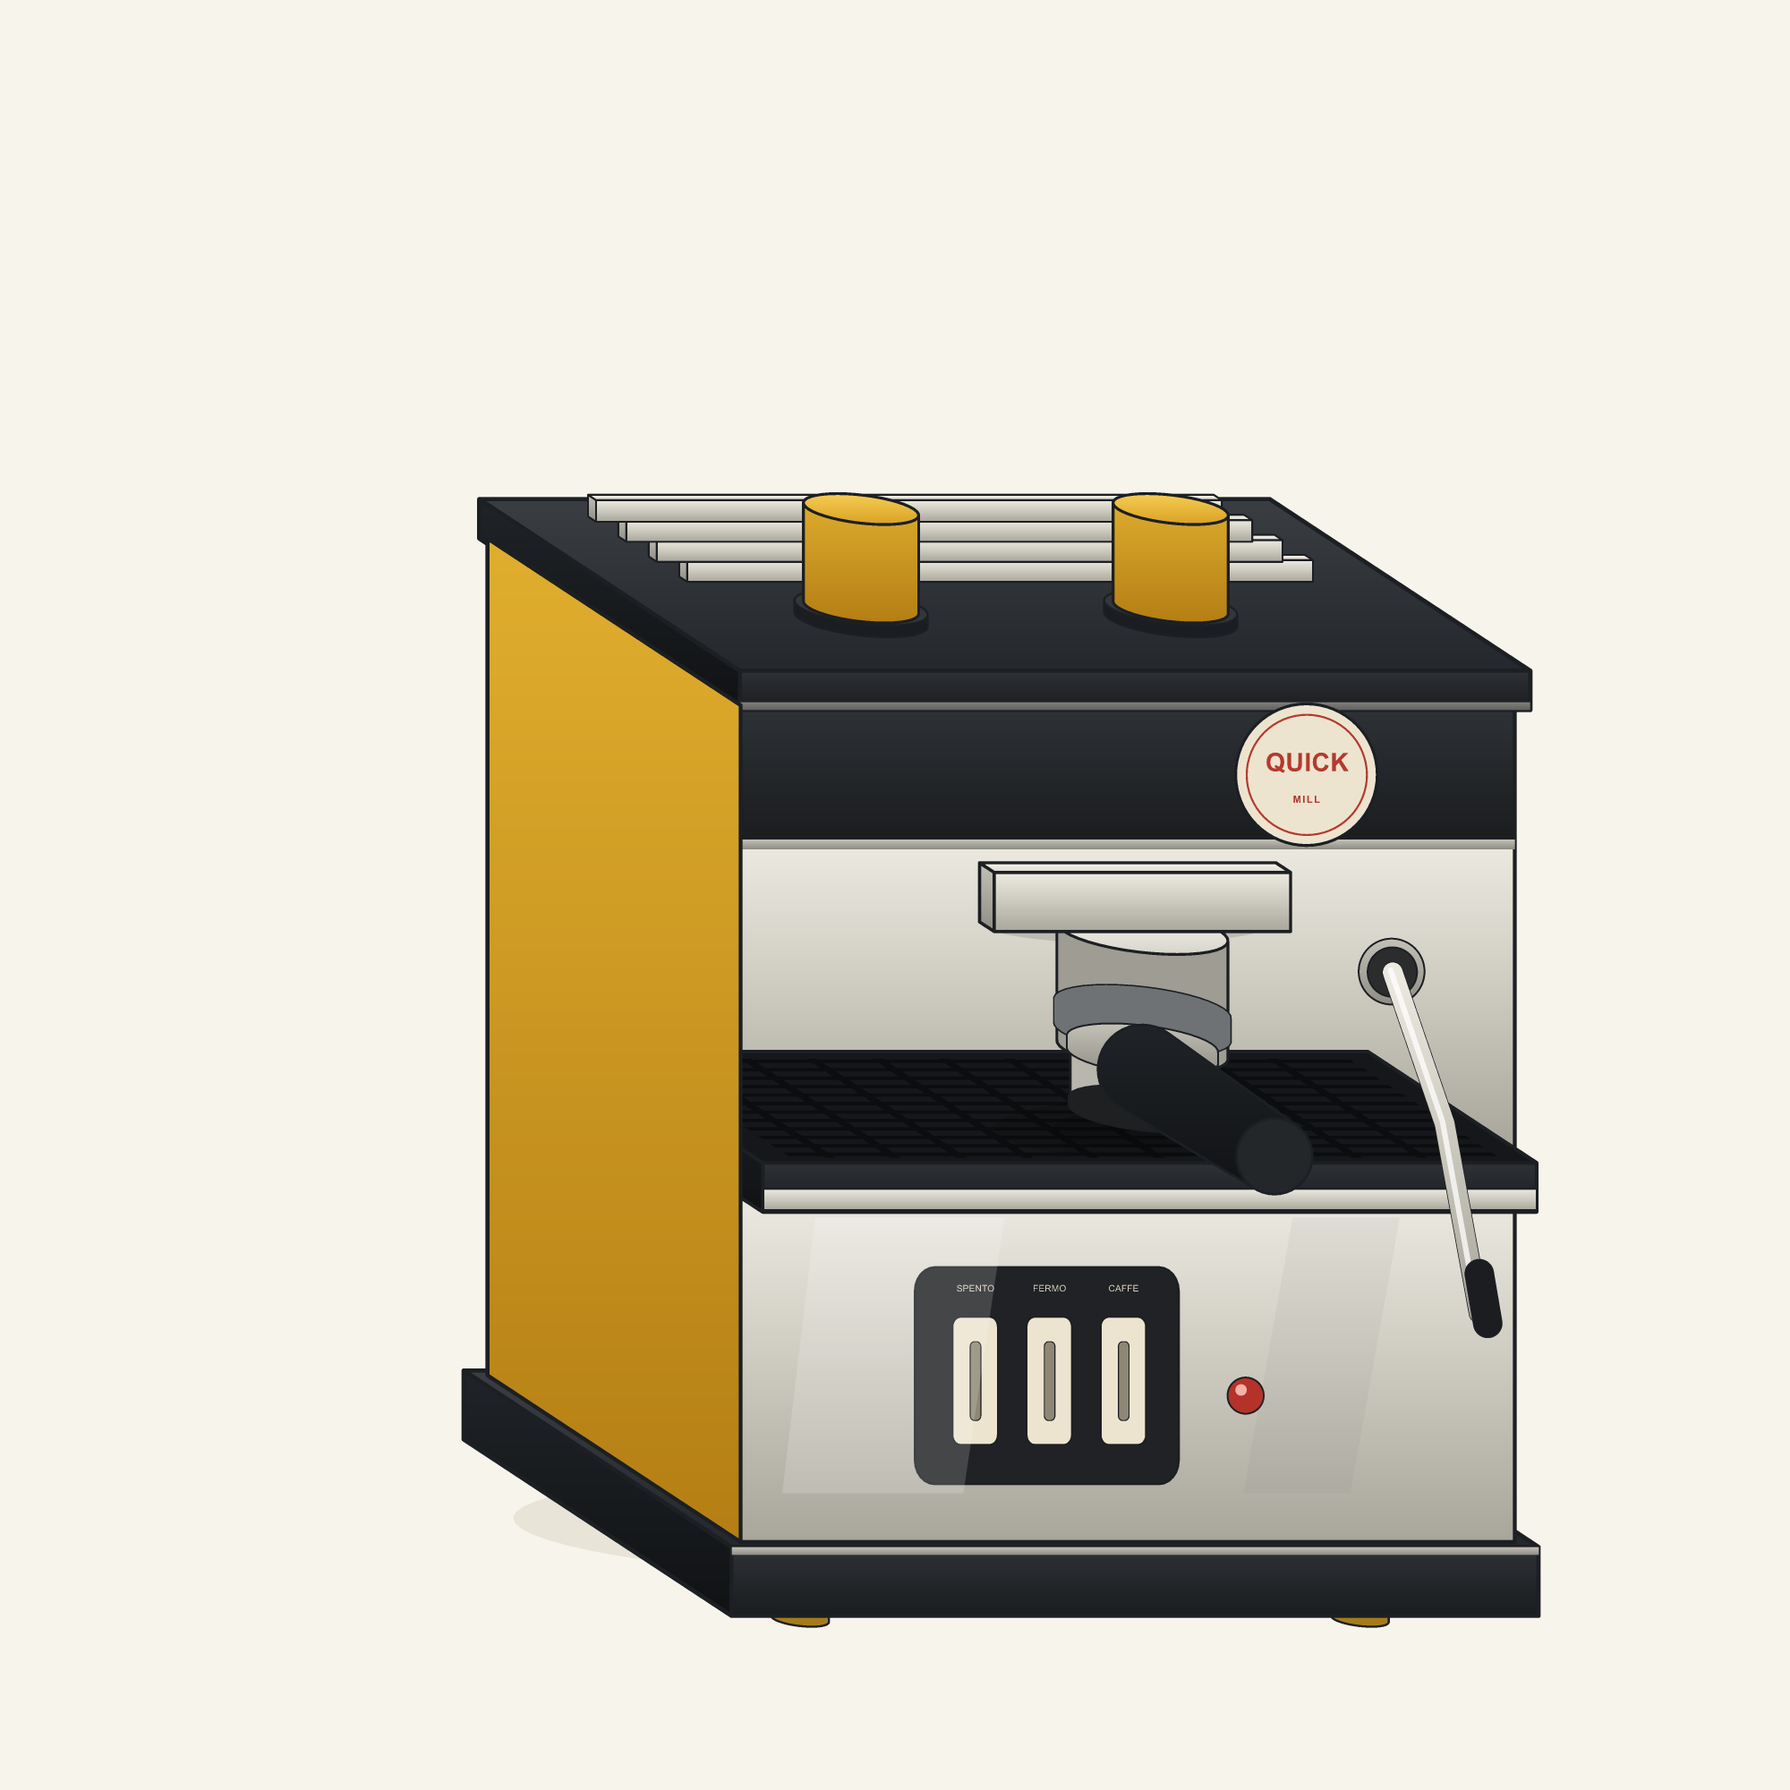
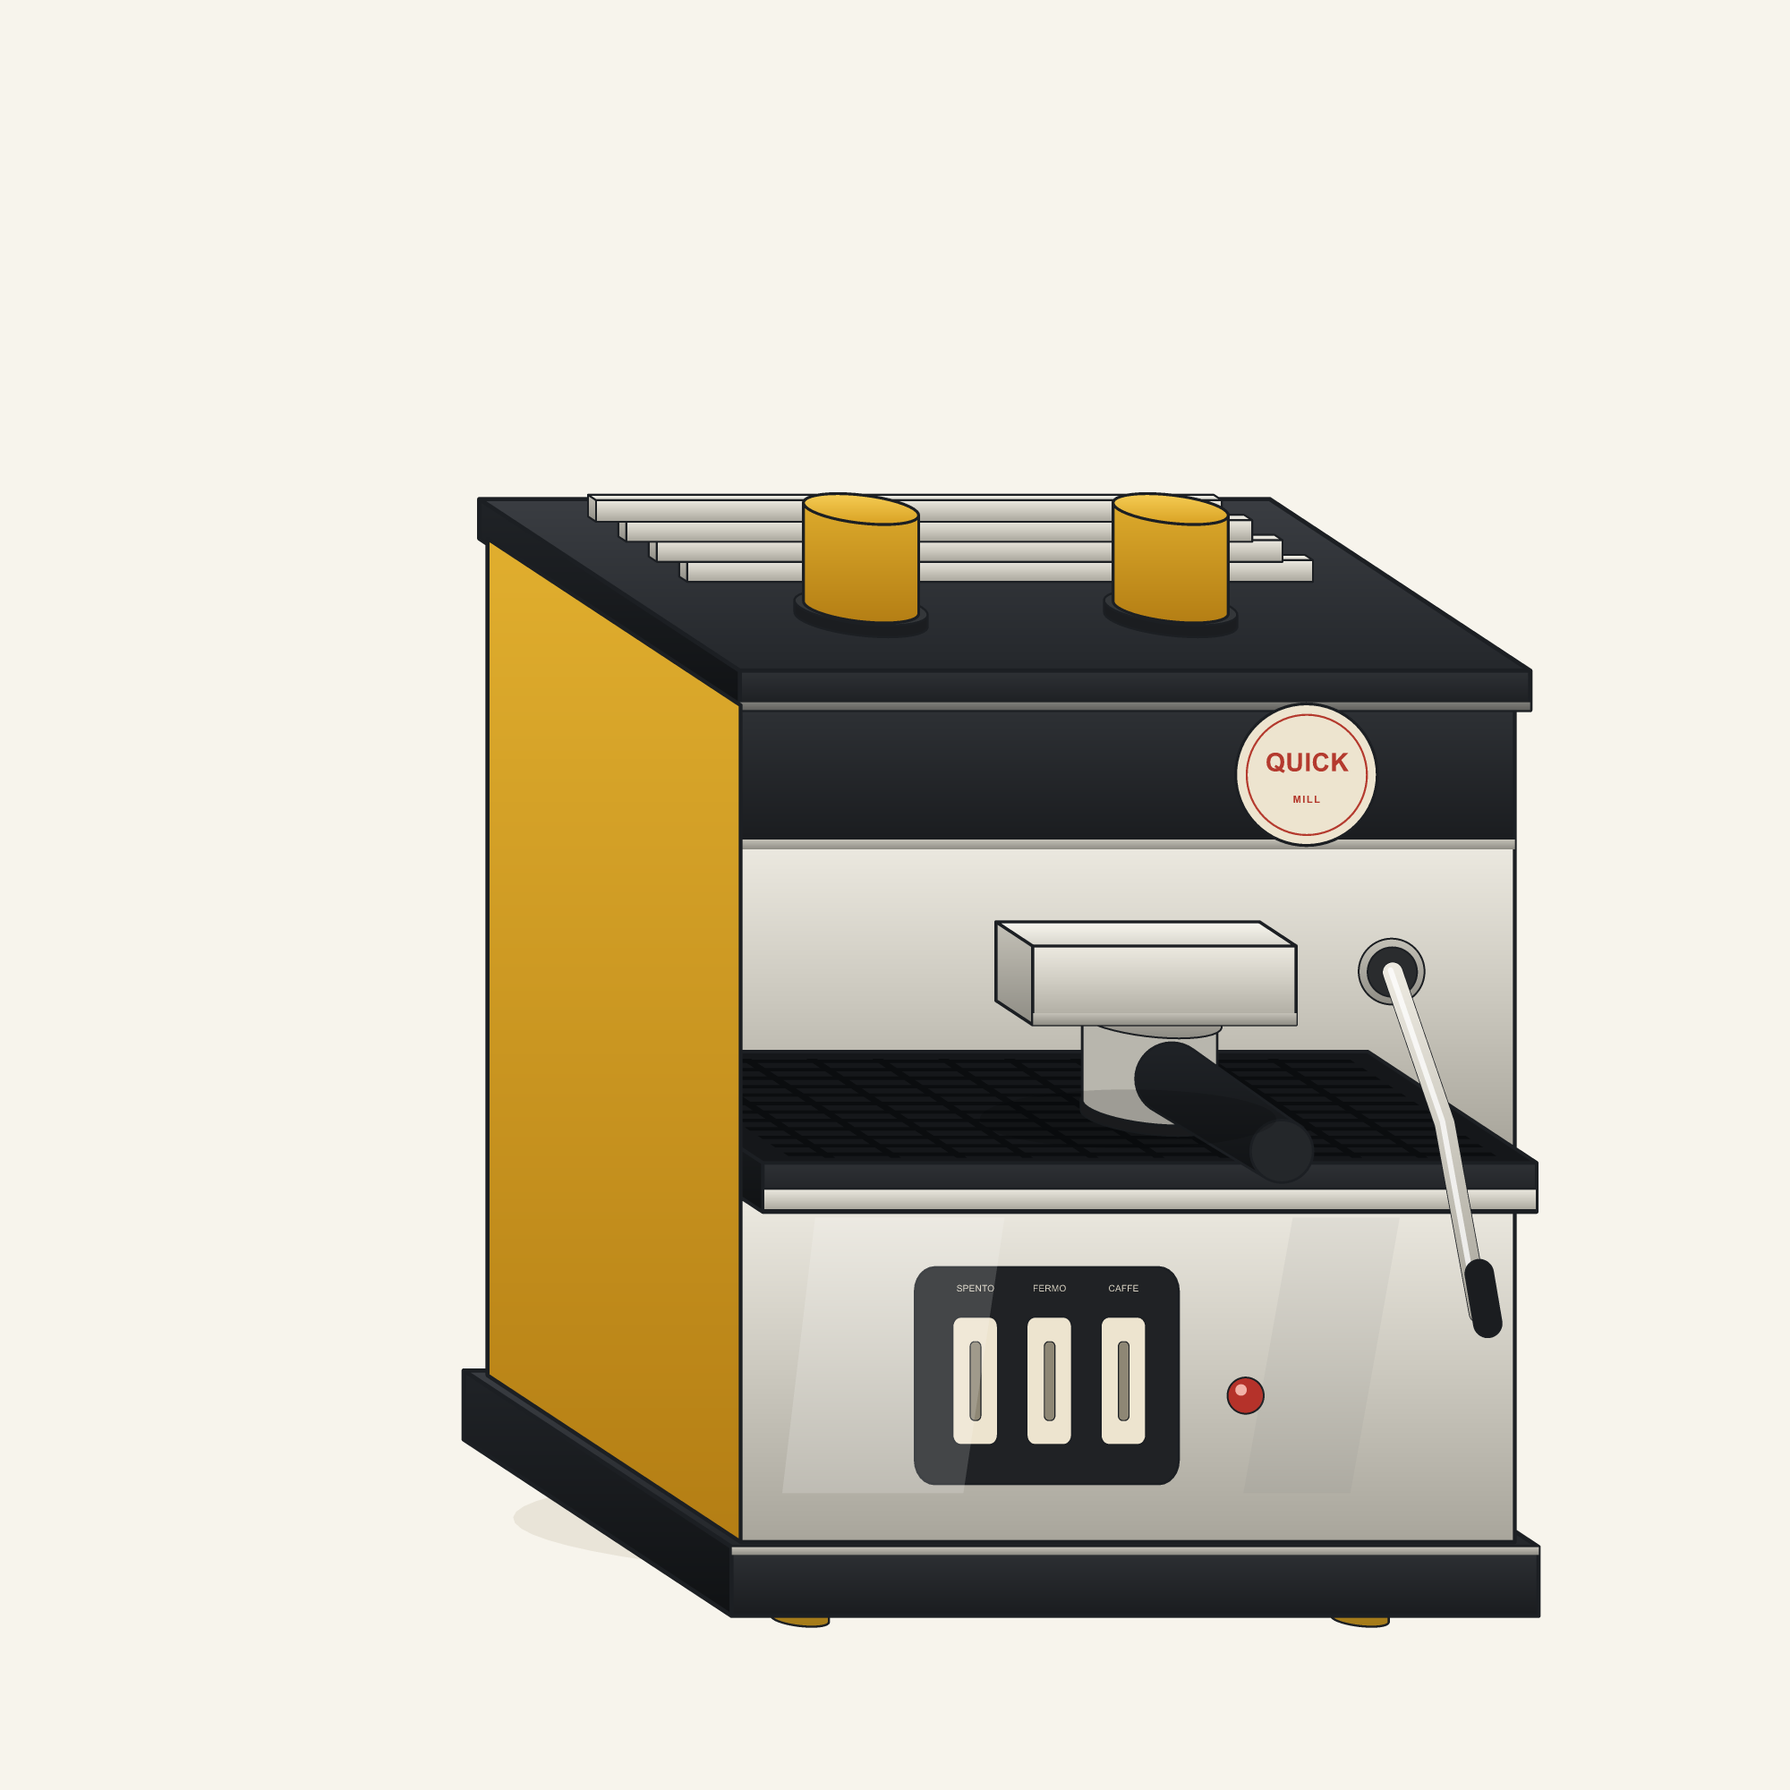
T053 [vector]: box group housing, painter order and report sync

Changed region(s): [[0.527, 0.465, 0.744, 0.651]]

diff --git a/experiments/T053-20261102-opencode-vector-reconstruction/inputs/build_quickmill.py b/experiments/T053-20261102-opencode-vector-reconstruction/inputs/build_quickmill.py
@@ -37,8 +37,8 @@ class Dimensions:
     top_h: float = 4
     tray_front: float = -6
     tray_depth: float = 46
-    group_r: float = 9.5
-    portafilter_r: float = 8.0
+    group_r: float = 8.5
+    portafilter_r: float = 7.5
 
     @property
     def x1(self) -> float:
@@ -190,40 +190,36 @@ def build(dims: Dimensions | None = None) -> str:
          (d.x0, d.tower_top, d.z1), (d.x0, d.tower_top, d.z0)],
         fill=yellow_side, sw=2.2)])
 
-    # Group head: an overhang + a vertical cylinder + a basket.  Not a lens.
+    # Portafilter is lower than the group housing, so it is painted first.
     gx = d.cx
-    gz = d.z0 - 4
+    gz = d.z0 - 6.0
     gy = d.group_y
-    # Vertical group.  The overhang is painted after the cylinder so it
-    # covers the cylinder's top ellipse; the bottom disc is not drawn because
-    # the camera is above and a bottom disc would show through the shell.
-    group_head = [
-        s.front_ellipse(gx, gy - 11, 18, 3.0, d.z0 - 4.05, "#000000",
-                        stroke=None, sw=0, opacity=0.14),
-        s.front_ellipse(gx, gy - 11, 11, 2.0, d.z0 - 4.05, "#000000",
-                        stroke=None, sw=0, opacity=0.14),
-        s.front_ellipse(gx, gy + 9, 18, 2.2, d.z0 - 0.1, "#000000",
-                        stroke=None, sw=0, opacity=0.12),
+    portafilter = [
+        s.cylinder_y(gx, gz, d.portafilter_r + 0.2, gy - 9.4, gy - 8.4,
+                     side="#1E2022", top="#1E2022", sw=0.8)[0],
+        s.cylinder_y(gx, gz, d.portafilter_r, gy - 8.4, gy + 1.0,
+                     side="#B8B6AD", top=chrome_top, sw=1.4)[0],
+        s.cylinder_y(gx, gz, d.portafilter_r + 0.5, gy + 0.6, gy + 1.2,
+                     side=chrome_side, top=chrome_top, sw=1.0)[0],
     ]
-    group_head += s.cylinder_y(gx, gz, d.group_r, gy - 3, gy + 9,
-                               side="#9E9C93", top=chrome_top, sw=1.6)
-    group_head.append(s.cylinder_y(gx, gz, d.group_r + 0.35, gy - 1.2, gy + 1.2,
-                                   side="#6F7274", top="#6F7274", sw=0.8)[0])
-    group_head += s.box(gx - 18, gy + 9, d.z0 - 4, gx + 18, gy + 15, d.z0,
-                        front=chrome_front, side=chrome_side, top=chrome_top, sw=1.8)
-    group(s, "group-head", group_head)
-
-    # Basket: side only; its top is hidden under the group head.  The handle
-    # is painted last because it is the front-most part.
-    portafilter = s.cylinder_y(gx, gz, d.portafilter_r, gy - 9, gy - 3,
-                               side="#B8B6AD", top=chrome_top, sw=1.4)[:1]
-    portafilter.append(s.cylinder_y(gx, gz, d.portafilter_r + 0.4, gy - 3.6, gy - 2.4,
-                                    side=chrome_side, top=chrome_top, sw=1.0)[0])
-    portafilter.append(s.cylinder_y(gx, gz, d.portafilter_r + 0.2, gy - 9.4, gy - 8.6,
-                                    side="#1E2022", top="#1E2022", sw=0.8)[0])
-    portafilter += s.cylinder_z(gx, gy - 5, gz, d.z0 - 40, 5.4, 4.6,
-                                side=black_side, cap="#24272A", sw=1.4)
+    portafilter += s.cylinder_z(gx, gy - 4.0, gz - d.portafilter_r + 1.5, d.z0 - 42,
+                                4.4, 3.8, side=black_side, cap="#24272A", sw=1.4)
     group(s, "portafilter", portafilter)
+
+    # Rectangular group housing.  It is drawn after the basket, so its bottom
+    # face covers the basket top; no top ellipse peeks out.
+    group_head = [
+        s.front_ellipse(gx, gy - 11, 18, 3.0, d.z0 - 0.1, "#000000",
+                        stroke=None, sw=0, opacity=0.14),
+    ]
+    group_head += s.box(gx - 16, gy + 1.0, d.z0 - 10, gx + 16, gy + 9.0, d.z0,
+                        front=chrome_front, side=chrome_side, top=chrome_top, sw=1.8)
+    group_head.append(s.face([(gx - 16, gy + 1.0, d.z0 - 10.1),
+                              (gx + 16, gy + 1.0, d.z0 - 10.1),
+                              (gx + 16, gy + 2.2, d.z0 - 10.1),
+                              (gx - 16, gy + 2.2, d.z0 - 10.1)],
+                             fill=chrome_side, stroke=None, sw=0))
+    group(s, "group-head", group_head)
 
     # Steam wand: bracket first, then the tube; z stays in front of the face.
     wand = [s.front_circle(d.x0 + d.width * 0.84, gy + 4, 4.0, d.z0 - 0.2,

diff --git a/experiments/T053-20261102-opencode-vector-reconstruction/inputs/make_compare.py b/experiments/T053-20261102-opencode-vector-reconstruction/inputs/make_compare.py
@@ -49,7 +49,7 @@ def main() -> None:
            "T051: 54 traced paths, 1,437 nodes, noise and doubled contours.",
            font=font(13), fill="#4A4F55")
     d.text((gap, top + height + 38),
-           "T053: 16 part groups, 105 primitive paths, 5 text elements, 0 traced pixels.",
+           "T053: 16 part groups, 101 primitive paths, 5 text elements, 0 traced pixels.",
            font=font(13), fill="#4A4F55")
     d.text((gap + trace.width + gap, top + height + 14),
            "Boxes, cylinders, plates and controls in one projection; the photo supplies",

diff --git a/experiments/T053-20261102-opencode-vector-reconstruction/REPORT.md b/experiments/T053-20261102-opencode-vector-reconstruction/REPORT.md
@@ -31,8 +31,8 @@
   accessed 2026-11-02. Kept locally only as a reference.
 - **Manual measurements (object units, width × height × depth):**
   base 104 × 7 × 74; lower body 94 × 35 × 69; tower 94 × 50 × 69; top panel
-  92 × 4 × 63; drip tray 94 × 5 × 46; group head boss radius 12.5 × 11 deep;
-  portafilter handle radius 5.6 → 4.8, 40 long; knobs radius 6.4 × 10 tall.
+  96 × 4 × 71; drip tray 94 × 5 × 46; group housing 32 × 8 × 10;
+  portafilter basket radius 7.5; handle radius 4.4 → 3.8, 42 long; knobs radius 6.4 × 10 tall.
   These are proportions read from the photo, not a survey.
 - **Environment:** Windows 10/11 x64; Python 3.13; VectorCraft
   `vectorcraft-cli.exe` (ArtCraft); no Illustrator/Inkscape run.
@@ -60,13 +60,14 @@ python -m unittest tests.test_vector_reconstruct -v
    base, lower body, tower, top panel, cup rails, drip tray, side panel, group
    head, portafilter, steam wand, top knobs, badge, controls. With the shadow
    and the highlight layer that is **16 groups** in the SVG.
-3. **Primitives only.** `box()` paints left side, top, front. `cylinder_z()`
-   builds the group head and portafilter from projected circles and a convex
-   hull. `front_rounded()` / `front_circle()` build plates, knobs and the badge.
+3. **Primitives only.** `box()` paints left side, top, front and builds the
+   group housing. `cylinder_y()` builds the basket and knobs from projected
+   circles and a convex hull; `cylinder_z()` is used only for the portafilter
+   handle. `front_rounded()` / `front_circle()` build plates and the badge.
    `tube()` is used only for the steam wand. There is **no Canny, no contour,
    no RDP, no pixel coordinate** in the scene.
 4. **Painter's order.** Base → lower body → tower → top panel → rails → tray →
-   side panel → group head → portafilter → wand → knobs → badge → controls.
+   side panel → portafilter → group head → wand → knobs → badge → controls.
    Each part is drawn after the part it occludes.
 5. **One light.** Front chrome is a light gradient, the left side is darker,
    the top is lightest; yellow uses the same convention. Two designed highlight
@@ -85,7 +86,7 @@ python -m unittest tests.test_vector_reconstruct -v
   front, circle/ellipse, vertical/horizontal cylinder, tube, gradients, SVG
   document and `inspect` CLI.
 - **`experiments/T053-.../inputs/build_quickmill.py`** — the Quick Mill scene:
-  16 semantic groups, 105 primitive paths, 5 text elements.
+  16 semantic groups, 101 primitive paths, 5 text elements.
 - **`tests/test_vector_reconstruct.py`** — 16 tests: linear projection,
   rounded rect, circle, hull, box faces, round front circles, cylinder parts,
   tube, live text, well-formed SVG without raster, determinism, paper layer.
@@ -105,7 +106,7 @@ python -m unittest tests.test_vector_reconstruct -v
 | Cup rails | 4 × thin chrome boxes | top, front | repeated bars, not a traced grid |
 | Drip tray | box 94×5×46 + slot pattern | top, front | black tray with a fine repeated grid |
 | Side panel | one yellow face | left | continuous from base to top; no tray cut |
-| Group head | overhang box + vertical cylinder | front, side, top | a hanging group, not a camera lens |
+| Group head | box housing + vertical basket | front, side, top | a rectangular group housing, not a camera lens |
 | Portafilter | vertical basket + horizontal handle | side, cap | basket under the group; handle forward |
 | Steam wand | screen-space tube | — | chrome tube + black grip; a hose, not an edge |
 | Top knobs | 2 × vertical cylinder | side, top | black base ring + yellow body |
@@ -123,8 +124,8 @@ scene.
 
 | Claim | Rung | Evidence |
 |---|---|---|
-| The SVG is a real, editable vector document | 1 | XML parses; 16 groups; 105 paths; 5 text elements; viewBox `0 0 1000 1000` |
-| It is rendered by the vector tool | 4 | VectorCraft `info`: 16 groups, 106 path objects, 5 types, 0 warnings; 2× PNG inspected |
+| The SVG is a real, editable vector document | 1 | XML parses; 16 groups; 101 paths; 5 text elements; viewBox `0 0 1000 1000` |
+| It is rendered by the vector tool | 4 | VectorCraft `info`: 16 groups, 102 path objects, 5 types, 0 warnings; 2× PNG inspected |
 | No raster underlay or trace | 1 | `build_quickmill.py` imports no OpenCV/Canny; SVG has no `<image>`/base64; scene uses object coordinates |
 | Parts are semantic and independent | 1 | group IDs `base`, `lower-body`, `tower`, `top-panel`, `drip-tray`, `side-panel`, `group-head`, `portafilter`, `steam-wand`, `top-knobs`, `badge`, `controls` |
 | Geometry is deterministic | 1 | two builds produce identical SVG; `test_scene_is_deterministic` |
@@ -137,7 +138,7 @@ scene.
 | Build | Method | Paths | Nodes / structure | Noise |
 |---|---|---|---:|---|
 | T051 line | Canny → RDP → Bézier | 54 | 1,437 nodes | doubled contours, traced reflections, badge C |
-| **T053** | **semantic 2.5D primitives** | **105** | **16 groups, 105 primitive paths, 5 texts** | **none by construction** |
+| **T053** | **semantic 2.5D primitives** | **101** | **16 groups, 101 primitive paths, 5 texts** | **none by construction** |
 
 Path count is not the metric; structure is. T053 has more paths because each
 box contributes three faces and each cylinder two, but every path is a named
@@ -192,9 +193,9 @@ the brief is unchanged, the scene was rebuilt.
 | Finding | Response |
 |---|---|
 | Blocker: `cylinder_y` shadowed the `top` colour with the top point list, so knob tops rendered black | **Fixed.** `bottom_pts` / `top_pts`; test asserts the top fill is valid and no `fill="[` exists |
-| Blocker: group head/portafilter were horizontal cylinders that read as a camera lens; drip tray pierced the front wall | **Fixed.** The group is an overhang + vertical cylinder + basket, with the handle forward. The tower starts at the tray top, so the tray no longer intersects the front wall |
+| Blocker: group head/portafilter were horizontal cylinders that read as a camera lens; drip tray pierced the front wall | **Fixed.** The group is a box housing + vertical basket, with the handle forward. The tower starts at the tray top, so the tray no longer intersects the front wall |
 | Blocker: report claimed “changing a dimension moves the part” while coordinates were hardcoded | **Fixed.** `Dimensions` dataclass; `build(Dimensions(width=88))` test; side panel, top, badge, rails and tray derive from it |
 | Major: text labels were wrong (“MOL”, “FEENO”) and appeared missing | **Fixed.** “MILL”, “FERMO”; text is live and renders (2× crop verified); test checks the text contract |
 | Major: top panel was offset (z8..71) and the wand went behind the front face | **Fixed.** Top panel is `z0-2..z1`, overhangs 1 unit; wand stays at `z <= 0`; bracket is drawn before the tube |
 | Major: no `cylinder_z`/scene/CLI tests; docstring promised a `demo` command | **Fixed.** 16 tests cover `cylinder_z`, `inspect_svg`, the Quick Mill scene and width change; `demo` implemented |
-| Minor: 14/15/16 counts, 100 vs 102 paths, pixel-space shadow, unused gradient/clip | **Fixed.** 16 groups (14 parts + shadow + highlights); 105 `<path>` + 1 `<rect>` + 5 `<text>`; VectorCraft reports 106 path objects; shadow uses `disc_y`; unused `yellowFront`/`clip` removed |
+| Minor: 14/15/16 counts, 100 vs 102 paths, pixel-space shadow, unused gradient/clip | **Fixed.** 16 groups (14 parts + shadow + highlights); 105 `<path>` + 1 `<rect>` + 5 `<text>`; VectorCraft reports 102 path objects; shadow uses `disc_y`; unused `yellowFront`/`clip` removed |

diff --git a/HANDOFF.md b/HANDOFF.md
@@ -74,7 +74,7 @@ PowerPoint chá»‰ lĂ  domain lĂ¢u Ä‘á»i nháº¥t.
 
 | `video` | Ná»n táº£ng (T042): SMPTE RP 2046-2 / EBU R95 safe areas (Action 3.5%, Title 5.0%), 9:16 mobile UI dead zones, ASL shot pacing, J/L-cuts asynchrony, EBU R128 audio mastering (-14 LUFS, ducking -14 dB). Native bridges: `filmcraft_bridge.py` & `soundcraft_bridge.py`. |
 
-| `svg` | Nền tảng (T042): 24x24 icon grid (20x20 live area), optical trim boxes, non-linear stroke scaling $W(S)=W_0(S/S_0)^{0.75}$, Bézier circle handle $\kappa \approx 0.55228$. Native bridge: `vectorcraft_bridge.py`. **T053** semantic 2.5D reconstruction: 16 groups, 105 primitive paths, 5 texts, 0 Canny/raster; T051 edge trace kept as **negative result**. `work/T053-opencode-vector-reconstruction`; **review requested**. Chưa có print/Illustrator/Inkscape, human rung 6. |
+| `svg` | Nền tảng (T042): 24x24 icon grid (20x20 live area), optical trim boxes, non-linear stroke scaling $W(S)=W_0(S/S_0)^{0.75}$, Bézier circle handle $\kappa \approx 0.55228$. Native bridge: `vectorcraft_bridge.py`. **T053** semantic 2.5D reconstruction: 16 groups, 101 primitive paths, 5 texts, 0 Canny/raster; T051 edge trace kept as **negative result**. `work/T053-opencode-vector-reconstruction`; **review requested**. Chưa có print/Illustrator/Inkscape, human rung 6. |
 
 | `3d` | Ná»n táº£ng (T042): Metric scale (mm, Y-up glTF), No-Sharp-Edge Law (micro-bevel $0.2-0.5	ext{ mm}$), concentric fillets, True Isometric camera ($35.264^\circ$ elev), 3-point studio lighting, PBR albedo clamp. Native bridge: `solidcraft_bridge.py`. |
 

diff --git a/docs/CHANGELOG.md b/docs/CHANGELOG.md
@@ -15,9 +15,9 @@ were true at the time. Task IDs and their branches are listed in
 - **Module.** `scripts/vector_reconstruct.py`: axonometric projection, box,
   front rounded rect/circle, vertical/horizontal cylinder, tube, gradients and
   an SVG scene with semantic groups.
-- **Scene.** `build_quickmill.py`: 14 parts / 16 groups, 105 primitive paths,
+- **Scene.** `build_quickmill.py`: 14 parts / 16 groups, 101 primitive paths,
   5 live text elements, 1000 × 1000; one light, painter's order, no raster.
-- **Evidence.** VectorCraft `info`: 16 groups, 106 paths, 5 types, 0 warnings;
+- **Evidence.** VectorCraft `info`: 16 groups, 102 paths, 5 types, 0 warnings;
   before/after sheet shows the T051 trace next to the reconstruction.
 - **Tests.** `tests/test_vector_reconstruct.py` (16 tests); full suite 448
   tests OK (8 skipped).
